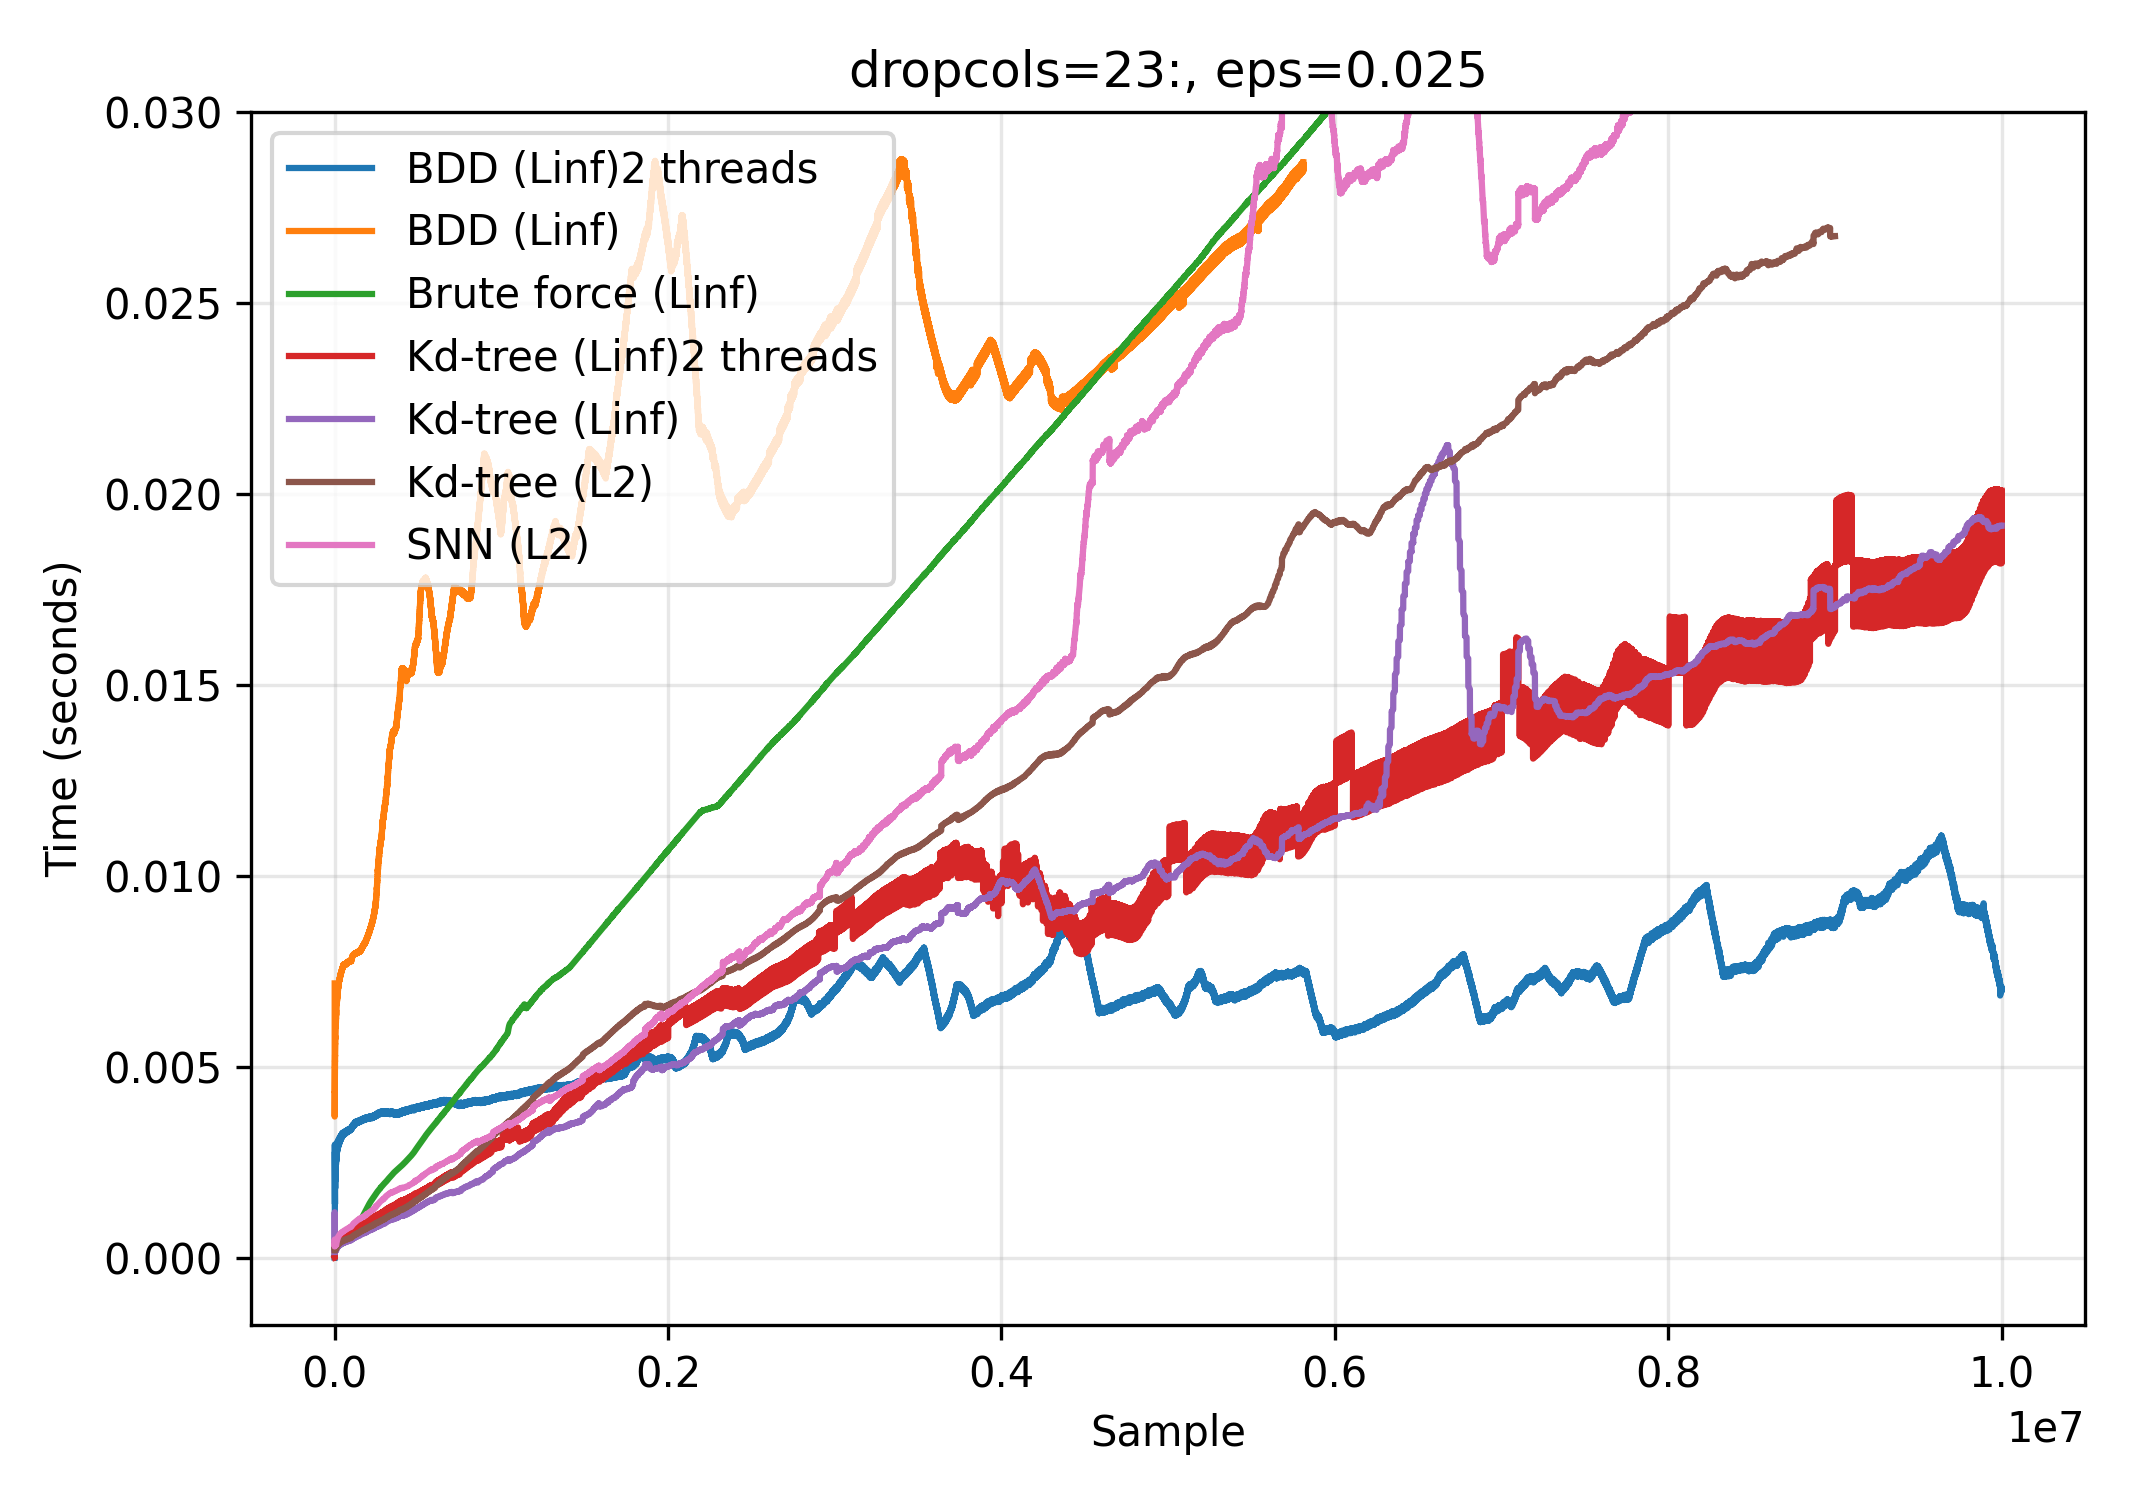
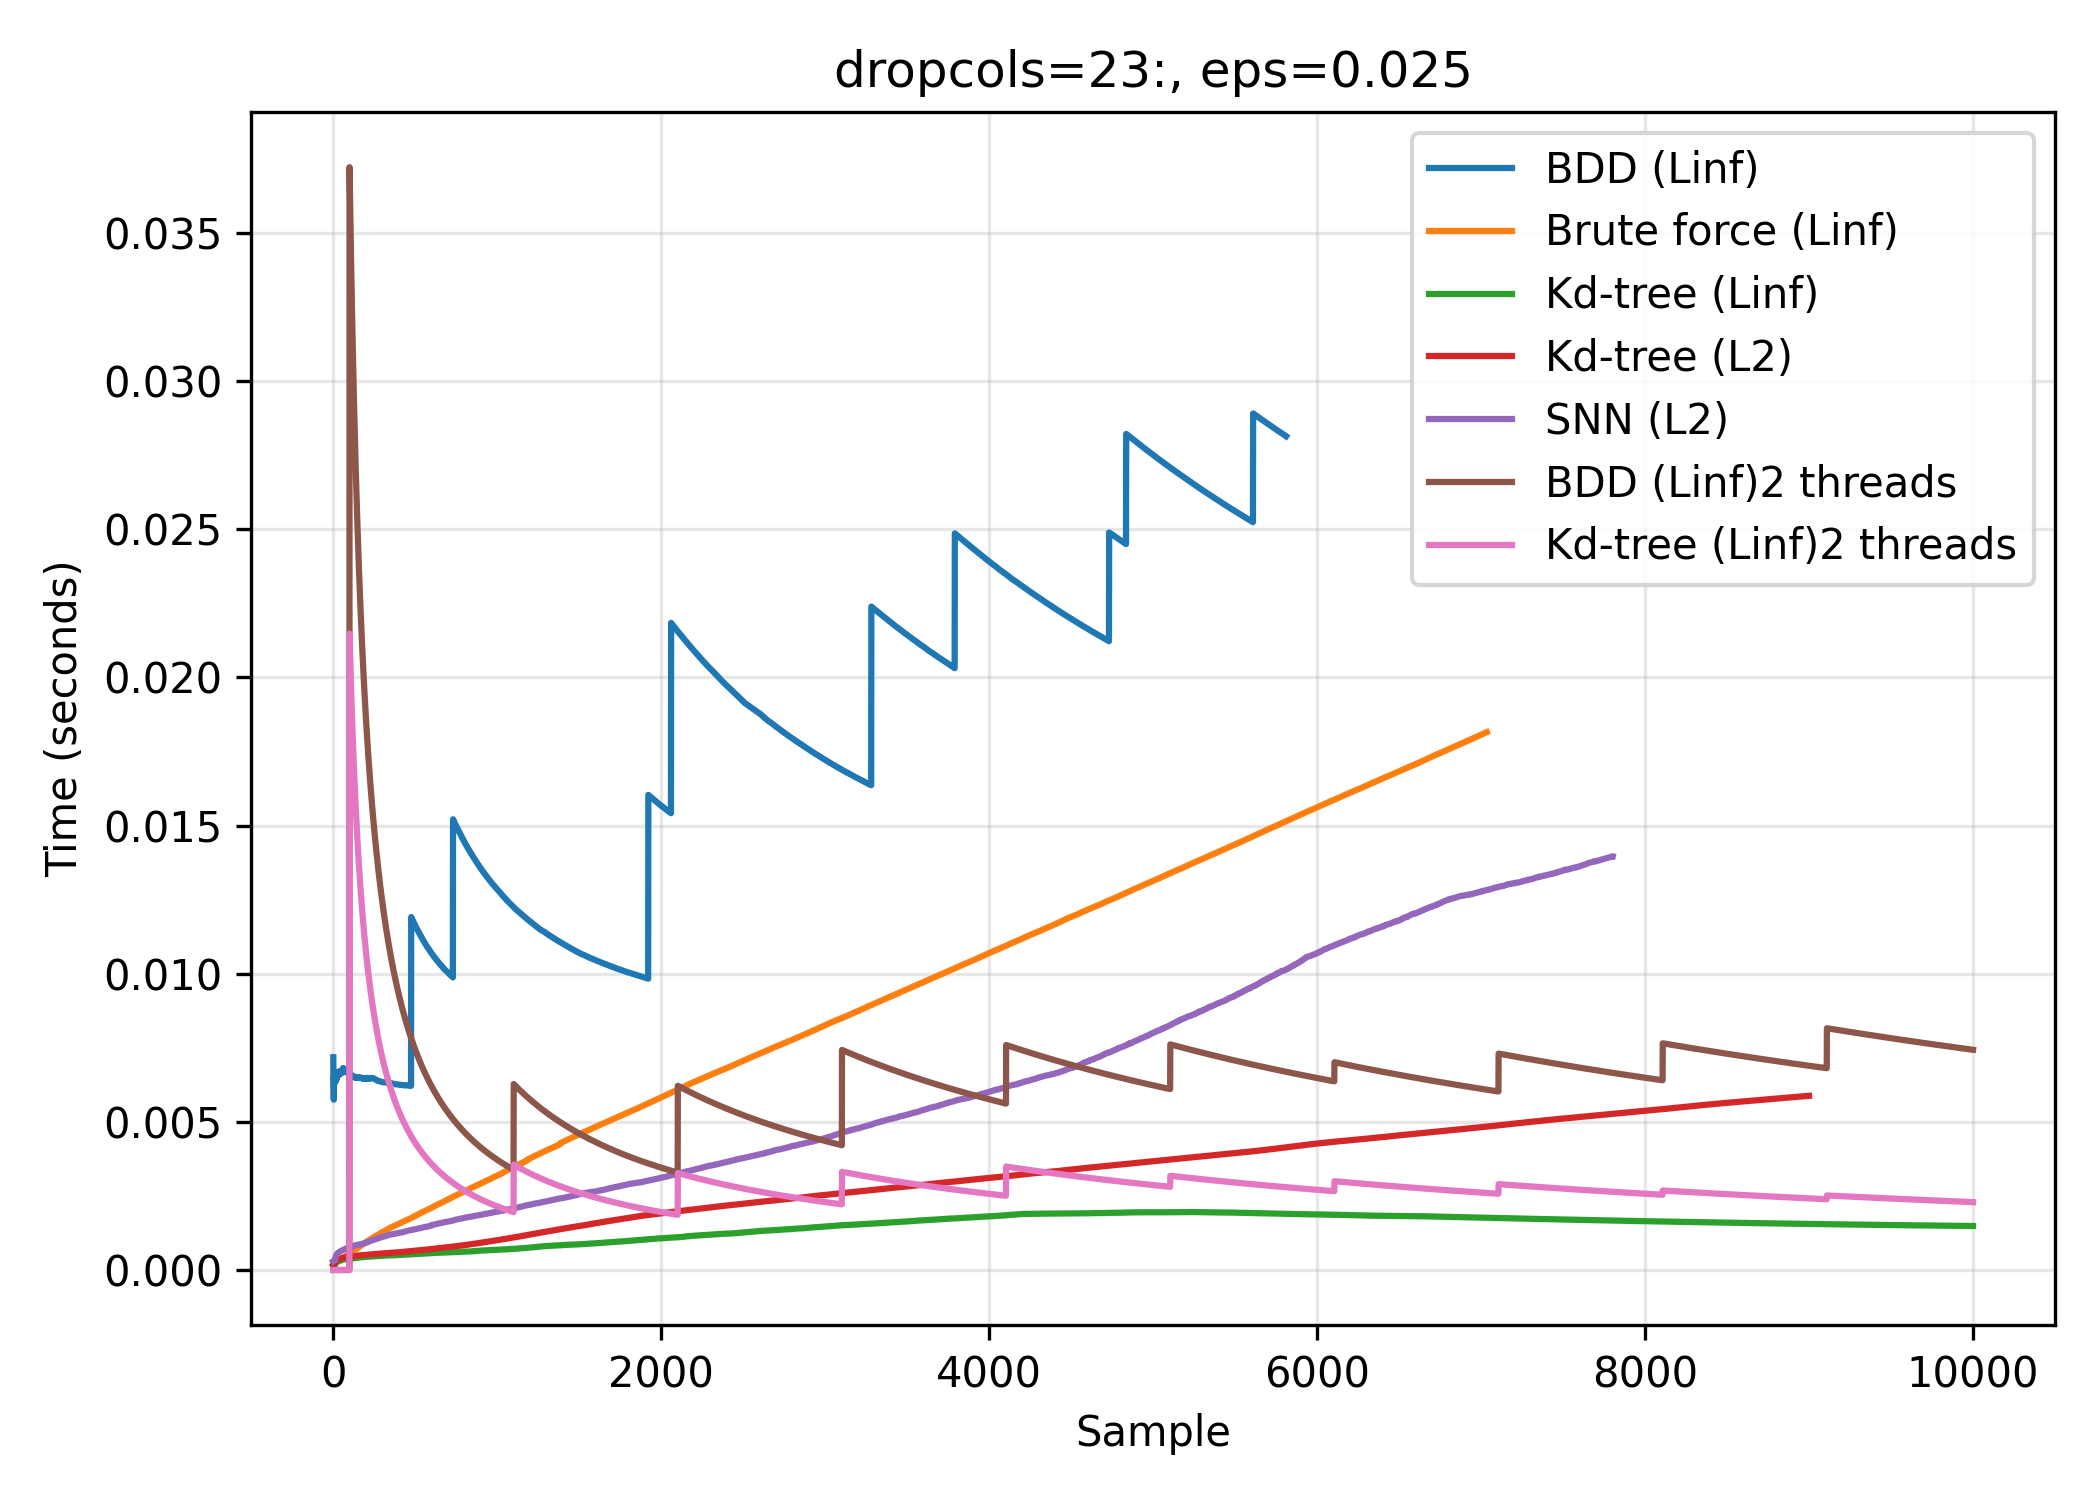
update perf plots

diff --git a/results/performance/plot.py b/results/performance/plot.py
@@ -64,29 +64,29 @@ args = parse_args()
 # Read all JSON files
 data = []
 for filepath in glob.glob(os.path.join(args.results_dir, 'results/*/*.json')):
-    if args.eps in filepath and args.sample in filepath:
+    if args.eps in filepath and args.sample in filepath and 'run2' not in filepath:
         with open(filepath, 'r') as f:
             result = json.load(f)
             file_info = parse_filename(filepath)
-            if args.sample == "11:" and file_info['parallelization'] != '1':
-                continue
+            #if args.sample == "11:" and file_info['parallelization'] != '1':
+            #    continue
             print("added", filepath, file=sys.stderr)
             data.append({**file_info, 'timings': result['timings'][:args.truncate]})
 
 # Sort data by norm, batchsize, method
-data.sort(key=lambda x: (x['norm'], x['method'], x['eps']))
+data.sort(key=lambda x: (x['parallelization'], x['norm'], x['method']))
 
 # Create plot
-plt.figure(figsize=(7.1, 5))
+plt.figure(figsize=(7, 5))
 
 for item in data:
-    x = np.arange(len(item['timings'][args.omit_beginning:]))
-    y = rolling_average(item['timings'][args.omit_beginning:], args.windowsize)
+    x = np.arange(len(item['timings'][args.omit_beginning:][::1000]))
+    y = rolling_average(item['timings'][args.omit_beginning:][::1000], args.windowsize)
     plt.plot(x, y, label=item["name"])
 
 plt.xlabel('Sample')
 plt.ylabel('Time (seconds)')
-plt.ylim(top=0.03)
+#plt.ylim(top=0.03)
 plt.grid(True, alpha=0.3)
 plt.title(f"dropcols={args.sample}, eps={args.eps}")
 plt.legend()
